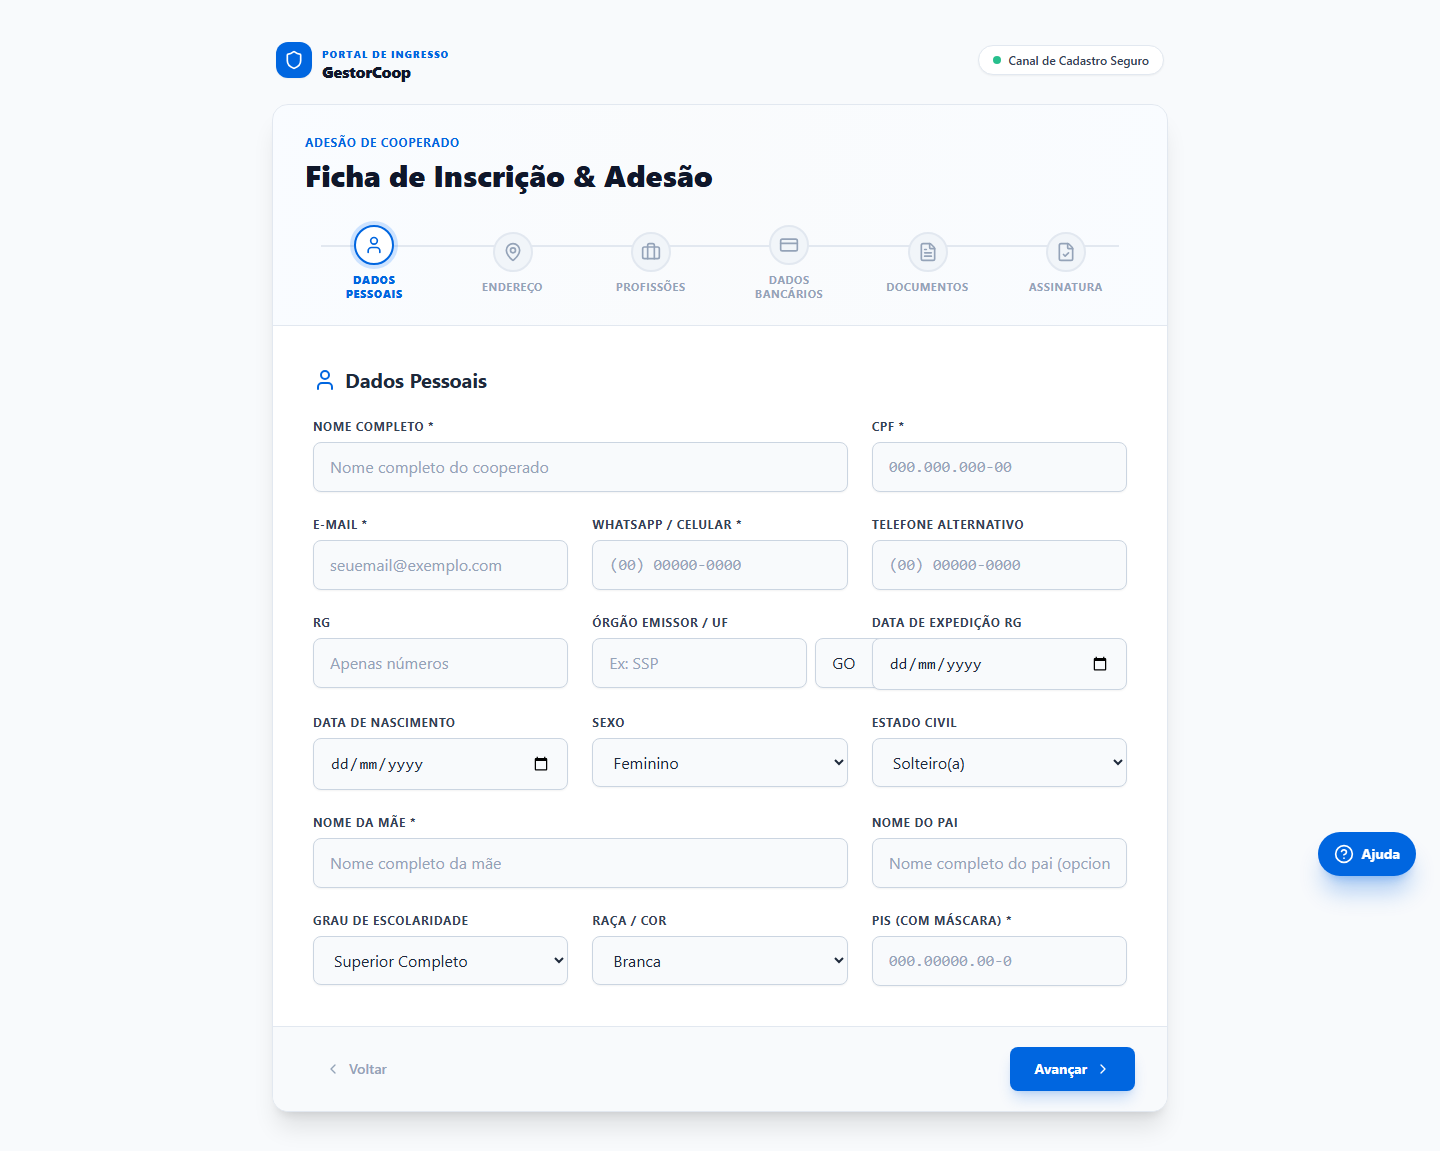
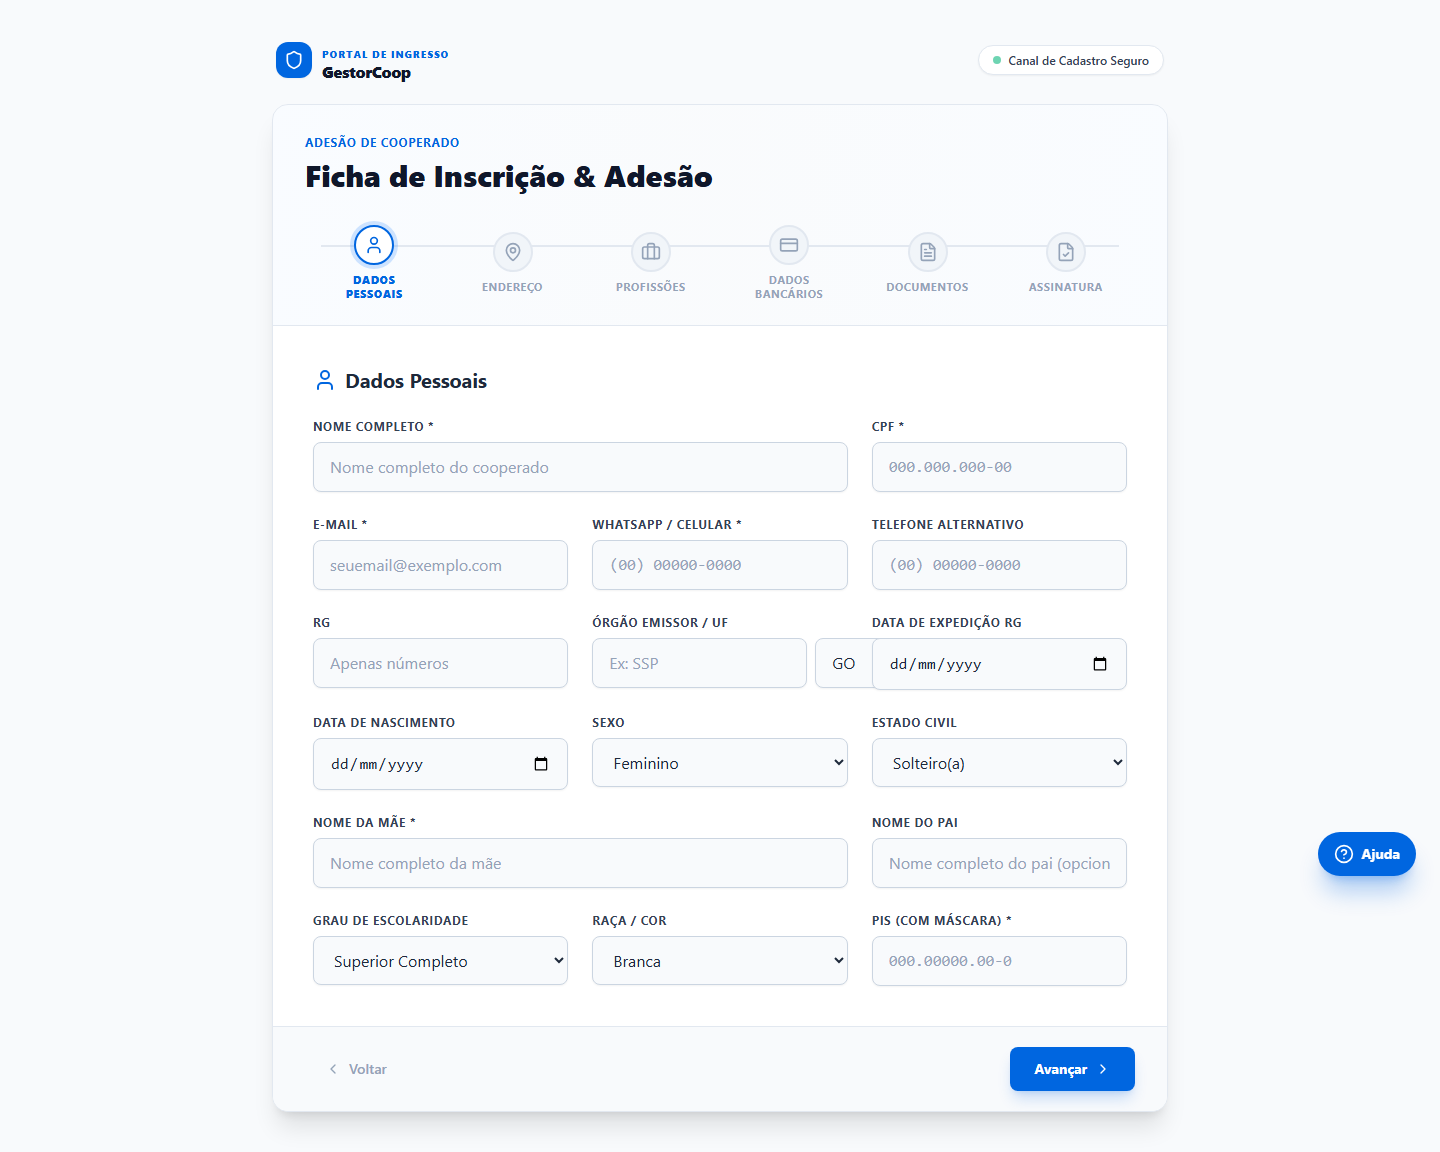
fix(zapsign): apontar webhook padrao para gestorcoop.pages.dev

diff --git a/temp-app/src/lib/zapsign.ts b/temp-app/src/lib/zapsign.ts
@@ -39,7 +39,7 @@ export const zapsignApi = {
     
     const appUrl = (process.env.NEXT_PUBLIC_APP_URL || '').trim();
     const isLocal = appUrl.includes('localhost') || appUrl.includes('127.0.0.1') || !appUrl.startsWith('https://');
-    const webhookUrl = (process.env.ZAPSIGN_WEBHOOK_URL || (!isLocal && appUrl ? `${appUrl.replace(/\/+$/, '')}/api/webhooks/zapsign` : 'https://gestorcoop.app/api/webhooks/zapsign')).trim();
+    const webhookUrl = (process.env.ZAPSIGN_WEBHOOK_URL || (!isLocal && appUrl ? `${appUrl.replace(/\/+$/, '')}/api/webhooks/zapsign` : 'https://gestorcoop.pages.dev/api/webhooks/zapsign')).trim();
     
     try {
       const response = await fetch(url, {
